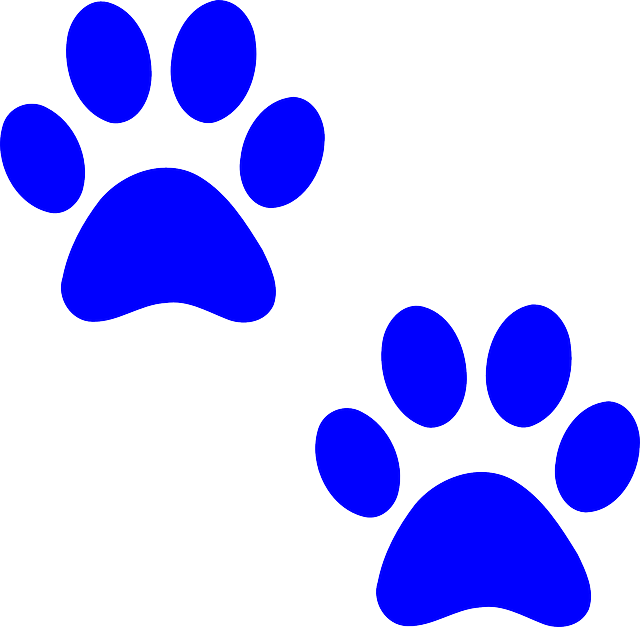
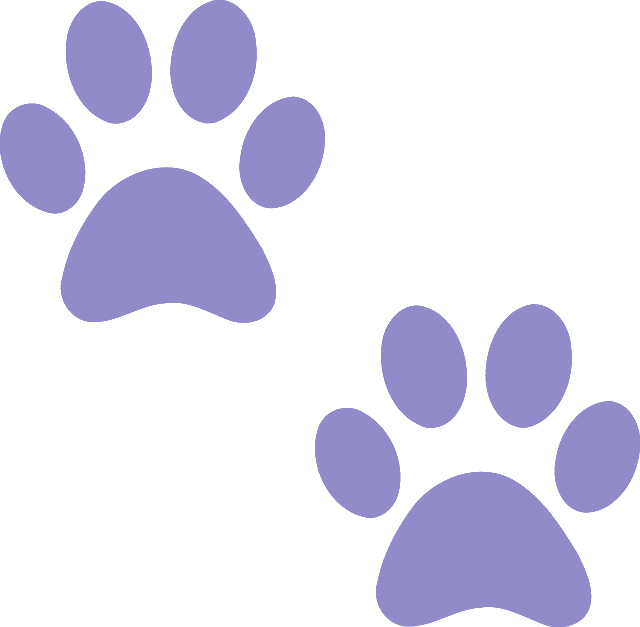
styled progress bar, new imgs

Changed region(s): [[0.4688, 0.4848, 1.0, 1.0], [0.0, 0.0, 0.5312, 0.5152]]

diff --git a/src/scss/player.scss b/src/scss/player.scss
@@ -13,8 +13,21 @@
     }
 }
 progress {
+    -webkit-appearance: none;
+    -moz-appearance: none;
+    appearance: none;
     max-width: 80vw;
 }
+progress[value]::-webkit-progress-bar {
+    background-color: #eee;
+    border-radius: 2px;
+    box-shadow: 0 2px 5px rgba(0, 0, 0, 0.25) inset;
+}
+progress[value]::-webkit-progress-value {
+    background-color: rgb(146, 139, 201);
+    border-radius: 2px;
+}
+
 .moves-container {
     img {
         transform: rotate(20deg);

diff --git a/src/scss/final-board.scss b/src/scss/final-board.scss
@@ -11,7 +11,7 @@
     
     .final-statistics {
         margin-bottom: 30px;
-        line-height: 1.2em;
+        line-height: 1.5em;
     }
 }
 .congratulations {
@@ -38,6 +38,5 @@
     }
     .final-board .restart-btn {
         width: 27%;
-        font-size: 1.2em;
     }
 }

diff --git a/src/scss/board.scss b/src/scss/board.scss
@@ -13,7 +13,6 @@
     grid-template-columns: repeat(3, 1fr);
     grid-row-gap: 3px;
     justify-items: center;
-    // width: 96vw;
     .card {
         width: 100%;
         width: 44px;
